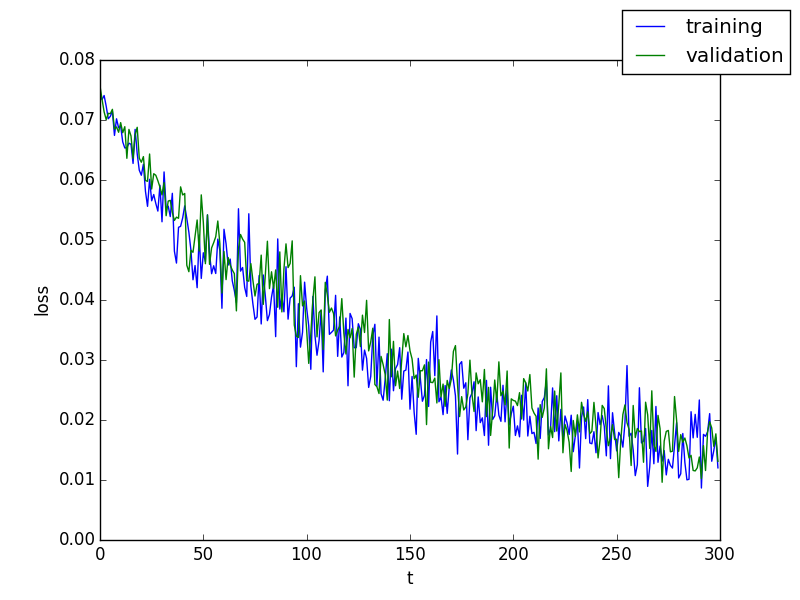
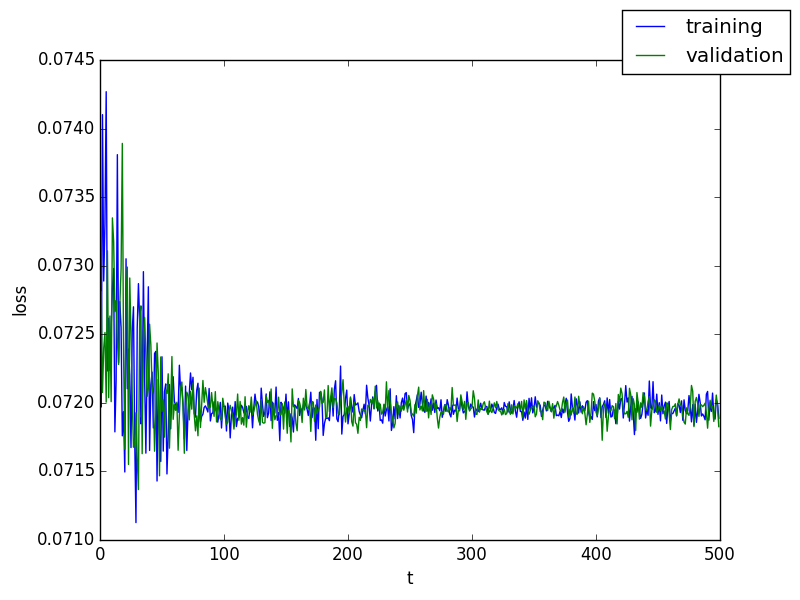
update masked example

diff --git a/sandbox/test_delay_iterator.py b/sandbox/test_delay_iterator.py
@@ -22,10 +22,7 @@ class DelayIterator(SequentialIterator):
         super(DelayIterator, self).__init__(data, batch_size=batch_size, n_batches=n_batches)
 
         # flags noise level
-        self.noise = 0
-
-        # get unique values in dataset
-        self.values = np.unique(self.data)
+        self.noise = noise
 
     def __iter__(self):
 
@@ -43,38 +40,62 @@ class DelayIterator(SequentialIterator):
 
         self.idx += 1
 
-        data = self.data[self._order]
+        d_shape = self.data[self._order][0].shape
+        d_size = self.data[self._order][0].size
 
-        return list(self.data[self._order])
+        # create noise component
+        noise = np.zeros(d_size)
+        n = int(np.ceil(self.noise*d_size))
+        noise[np.random.permutation(d_size)[:n]] = np.random.rand(n)
+        noise = noise.reshape(d_shape)
+
+        data = self.data[self._order]
+        data[0][noise!=0] = noise[noise!=0]
+
+        return list(data)
 
 
 # parameters
-n_epochs = 300
+n_epochs = 500
 
 # get training and validation data - note that we select a subset of datapoints
 train_data = MNISTData(test=False, convolutional=False, n_samples=100)
 val_data = MNISTData(test=True, convolutional=False, n_samples=100)
 
-# define training and validation environment; each trial consists of five consecutive frames
-train_iter = DelayIterator(train_data, n_batches=5, batch_size=32)
-val_iter = DelayIterator(val_data, n_batches=5, batch_size=32)
+# define training and validation environment; each trial consists of five consecutive frames under a certain noise level
+# note that n_batches defines the number of time steps in a trial
+train_iter = DelayIterator(train_data, n_batches=5, batch_size=32, noise=0.5)
+val_iter = DelayIterator(val_data, n_batches=5, batch_size=32, noise=0.5)
 
 ninput = train_iter.data.input()
-nhidden = 10
+nhidden = 20
 noutput = train_iter.data.output()
-
-# define mask for Elman network
-mW = np.ones([nhidden, nhidden], np.float32) # hidden-hidden mask
-#mU = np.ones([nhidden, ninput], np.float32) # input-hidden mask
 
 # define brain of agent
 model = Classifier(RNN(ninput, noutput, n_hidden=nhidden, link=Elman))
 
-# ugly way of setting the mask due to the generic RNN formulation
-model.predictor[0][0].maskW = np.triu(mW,0)
+## define masks for Elman network
 
-# define agent
-agent = StatefulAgent(model, chainer.optimizers.Adam())
+# input-hidden mask - only allow first half to watch input
+mU = np.ones([nhidden, ninput], np.float32)
+mU[(nhidden/2):,:] = 0
+
+# hidden-hidden mask - either recurrent or feedforward
+b_recurrent = True
+if b_recurrent:
+    mW = np.ones([nhidden, nhidden], np.float32)
+else:
+    mW = np.ones([nhidden, nhidden], np.float32)
+    mW[(nhidden/2):,:(nhidden/2)] = 0 # remove feedback connections
+
+# ugly way of setting the mask due to the generic RNN formulation
+# removing this mask will yield the fully connected Elman network
+model.predictor[0][0].maskW = mW
+model.predictor[0][0].maskU = mU
+
+# define agent - last=True ensures that we only update at the end of a trial
+b_last = False
+agent = StatefulAgent(model, chainer.optimizers.Adam(), last=b_last)
 
 # add hook
 agent.optimizer.add_hook(chainer.optimizer.WeightDecay(1e-5))
@@ -89,11 +110,17 @@ world.validate(train_iter, val_iter, n_epochs=n_epochs, plot=-1)
 agent.add_monitor(Monitor())
 
 # run world in test mode
-world.test(SequentialIterator(val_data, batch_size=1), n_epochs=1, plot=0)
+world.test(DelayIterator(val_data, n_batches=5, batch_size=200, noise=0.5), n_epochs=1, plot=0)
 
 # get variables
 Y = agent.monitor[0]['prediction']
 T = agent.monitor[0]['target']
+
+# only take the predictions for the last time step if b_last = True
+if b_last:
+    Y = Y[-200:]
+    T = T[-200:]
+
 [n_samples, n_vars] = Y.shape
 
 # plot confusion matrix
@@ -115,135 +142,3 @@ plt.title('Confusion matrix; accuracy = ' + str(100.0 * np.sum(np.diag(conf_mat)
 tools.save_plot(fig, world.out, 'confusion_matrix')
 
 plt.close()
-
-
-
-
-
-
-
-
-
-
-
-
-
-
-
-#
-#
-#
-#
-#
-#
-#
-# import chainer
-# import tools as an
-# from environments.datasets import CIFARData
-# from learners.base import Learner, Tester
-# from learners.iterators import *
-# from learners.supervised_learner import StatefulTrainer
-# from models.models import Classifier
-# from models.monitor import Monitor
-# from models.networks import ConvNet
-#
-#
-# #####
-# ## Delay iterator - a trial iterator that spits out the same datapoint n_batch times
-#
-# class DelayIterator(SequentialIterator):
-#
-#     def __init__(self, data, trial_length, batch_size=None, noise=None):
-#         super(DelayIterator, self).__init__(data)
-#
-#         self.batch_size = batch_size or len(self.data)
-#         self.n_batches = trial_length
-#
-#         # flags type of noise - not yet implemented
-#         self.noise = None
-#
-#     def __iter__(self):
-#
-#         self.batch_idx = 0
-#
-#         # generate another random batch in each epoch
-#         self._order = np.random.permutation(len(self.data))[:self.batch_size]
-#
-#         return self
-#
-#     def next(self):
-#
-#         if self.batch_idx == self.n_batches:
-#             raise StopIteration
-#
-#         self.batch_idx += 1
-#
-#         return [self.data[index] for index in self._order]
-#
-#
-# #####
-# ## Main
-#
-# # parameters
-# n_epochs = 10
-#
-# # get training and validation data
-# # note that we select a subset of datapoints
-# train_data = CIFARData(test=False, convolutional=True, n_samples=100)
-# val_data = CIFARData(test=True, convolutional=True, n_samples=100)
-#
-# # define model
-# model = Classifier(ConvNet(train_data.n_input, train_data.n_output, n_hidden=10))
-#
-# # Set up an optimizer
-# optimizer = chainer.optimizers.Adam()
-# optimizer.setup(model)
-# optimizer.add_hook(chainer.optimizer.WeightDecay(1e-5))
-#
-# # define trainer object
-# # last=True ensures that we only update at the last time point
-# trainer = StatefulTrainer(optimizer, DelayIterator(train_data, trial_length=3), last=True)
-#
-# # define tester object
-# tester = Tester(model, DelayIterator(val_data, trial_length=3))
-#
-# # define learner to run multiple epochs
-# learner = Learner(trainer, tester)
-#
-# # run the optimization
-# learner.run(n_epochs)
-#
-# # get trained model
-# model = learner.model
-#
-# # add monitor to model
-# model.set_monitor(Monitor())
-#
-# # test some data with the learner - requires target data
-# tester = Tester(model, DelayIterator(val_data, trial_length=3))
-# tester.run()
-#
-# # get variables
-# Y = model.monitor.get('prediction')
-# T = model.monitor.get('target')
-# [n_samples, n_vars] = Y.shape
-#
-# # plot confusion matrix
-#
-# conf_mat = an.confusion_matrix(Y, T)
-#
-# fig = plt.figure()
-#
-# plt.imshow(conf_mat, interpolation='nearest')
-# plt.xlabel('Predicted class')
-# plt.ylabel('True class')
-# plt.xticks(np.arange(n_vars)),
-# plt.gca().set_xticklabels([str(item) for item in 1 + np.arange(n_vars)])
-# plt.yticks(np.arange(n_vars))
-# plt.gca().set_yticklabels([str(item) for item in 1 + np.arange(n_vars)])
-# plt.colorbar()
-# plt.title('Confusion matrix')
-#
-# an.save_plot(fig,'result','confusion_matrix')
-#
-# plt.close()

diff --git a/brain/links.py b/brain/links.py
@@ -95,12 +95,14 @@ class Elman(link.Chain):
 
     def __call__(self, x):
 
+        # add optional mask to input-hidden weights
         if not self.maskU is None:
             if self.U.has_uninitialized_params:
                 with cuda.get_device(self.U._device_id):
                     self.U._initialize_params(x.size // x.shape[0])
             self.U.W *= self.maskU
 
+        # add optional mask to hidden-hidden weights
         if not self.maskW is None:
             if self.W.has_uninitialized_params:
                 with cuda.get_device(self.W._device_id):
